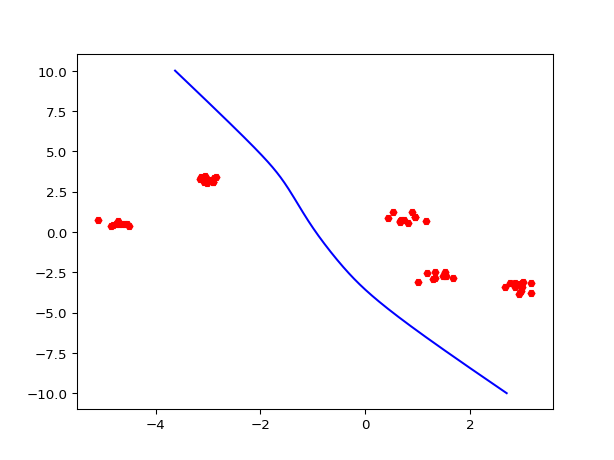
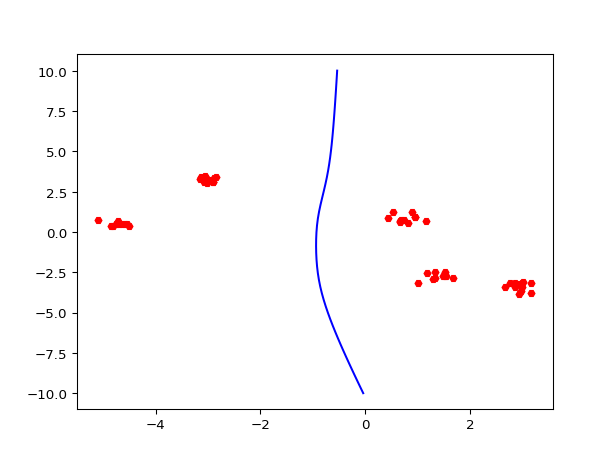
finally program is working as expected some improvements to the plotting function were implemented as well as ensuring that logic for checking the state of the craft in kesselRun() operated correctly. Overall the biggest change was reducing the craft weight which allows for more 'crazy' manouvers th

diff --git a/McMillan_Erich_pa4.py b/McMillan_Erich_pa4.py
@@ -9,12 +9,13 @@
 # a standard deviation of pi/4, the magnitude of the velocity is uniformly chosen between 2 and 5. Next
 # the program steps through the run iteratively using a small discrete time step and recalculating the
 # force/acceleration/velocity/position at each step. If the force exceeds 4[Newtons] the run is
-# terminated as unsuccessful. After a few thousand iterations the best and worst sucessful runs are
+# terminated as unsuccessful. After a few thousand iterations the best and worst successful runs are
 # plotted on a graph and saved to a .png in the current directory.
 
 ##	Import science modules	##
 import numpy as np
 import scipy.io as sio
+import scipy.spatial as sp
 import matplotlib.pyplot as plt
 import math as math
 from collections import namedtuple
@@ -28,14 +29,14 @@ runParameters = namedtuple("runParameters",
 class kesselRun:
 	# kesselRun constructor
 	def __init__(self):
-		self.pos = [-1,-1]
-		self.initpos = [-1,-1]
-		self.path = []
-		self.vel = [-1,-1]
-		self.initvel = [-1,-1]
+		self.pos = np.array([-1.0,-1.0])
+		self.initpos = np.array([-1.0,-1.0])
+		self.path = np.array([])
+		self.vel = np.array([-1.0,-1.0])
+		self.initvel = np.array([-1.0,-1.0])
 		self.initvmag = -1
 		self.initvang = -1
-		self.acc = [-1,-1]
+		self.acc = np.array([-1.0,-1.0])
 		self.time = 0
 		self.success = False
 		self.terminated = False
@@ -45,82 +46,71 @@ class kesselRun:
 	def setMass(self, mass):
 		self.mass = mass
 	def updatePosition(self, position):
-		self.path.append(position)
+		self.path = np.append(self.path, position)
 		self.pos = position
-		# print("position")
-		# print(self.pos)
 	def updateVelocity(self, velocity):
 		self.vel = velocity
-		# print("velocity")
-		# print(self.vel)
 	def updateAcceleration(self, acceleration):
 		self.acc = acceleration
-		# print("acceleration")
-		# print(self.acc)
 	def updateTime(self, deltat):
 		self.time += deltat
 	def stepRungeKuttaIntegration(self, blackholes, runParameters):
 		# Definition:
 
 		# declare variables
-		forceonship = [0,0]
+		forceonship = np.array([0.0,0.0])
 
 		# determine force upon the ship
 		for currentbh in blackholes:
 			forceonship = np.add(forceonship, currentbh.calculateForce(self.pos, self.mass))
 
-		# print(forceonship)
-		# print(np.linalg.norm(forceonship))
-		# print((np.linalg.norm(forceonship) > runParameters.maxForce))
-		# check if force has exceeded specified max if so terminate run
-		self.terminated = (np.linalg.norm(forceonship) > runParameters.maxForce) if True else self.terminated
-		if(self.terminated):
-			print("gravity exceeded max")
-			print(np.linalg.norm(forceonship))
-			return
-
 		# update acceleration
-		self.updateAcceleration(np.divide(forceonship, self.mass))
 		# update velocity
-		self.updateVelocity(np.add(self.vel, np.multiply(self.acc, runParameters.resolution)))
-
 		# update position
-		self.updatePosition(np.add(self.pos, np.multiply(self.vel, runParameters.resolution)))
-
 		# update time
+		self.updateAcceleration(np.divide(forceonship, self.mass))
+		self.updateVelocity(np.add(self.vel, np.multiply(self.acc, runParameters.resolution)))
+		self.updatePosition(np.add(self.pos, np.multiply(self.vel, runParameters.resolution)))
 		self.updateTime(runParameters.resolution)
 
-		# check if ship's y is greater than finalY if so then sucessful run
-		self.success = (self.pos[1] > runParameters.finalY) if True else self.sucess
 
-		# print(self.pos[0])
-		# print((self.pos[0] < -10.0 or self.pos[0] > 10.0))
-		# check if ship is outside the bounds
-		# print(self.pos[0])
-		# print(self.pos[1][0])
-		self.terminated = (self.pos[0] < -10.0 or self.pos[0] > 10.0) if True else self.terminated
-		# print(self.terminated)
 		# check if run time has exceeded maxtime if so terminate run
-		# self.terminated = (self.time > runParameters.maxTime) if True else self.terminated
-		# print(self.terminated)
+		# check if force has exceeded specified max if so terminate run
+		# check if ship is outside the bounds
+		if(self.time > runParameters.maxTime):
+			self.terminated = True
+			print("time exceeded max")
+			return
+		if(np.linalg.norm(forceonship) > runParameters.maxForce):
+			self.terminated = True
+			print("gravity exceeded max")
+			return
+		if(self.pos[0] < -10.0 or self.pos[0] > 10.0):
+			self.terminated = True
+			print("ship outside bounds")
+			return
+
+		# check if ship's y is greater than finalY if so then successful run
+		self.success = (self.pos[1] > runParameters.finalY) if True else self.success
+	def calculateDistance(self):
+
+		if(len(self.path) == 0):
+			return -1
+
+		numcol = int(len(self.path)/2)
+		reshapedpath = self.path.reshape(numcol,2)
+		distances = sp.distance.cdist(reshapedpath[0:-1,:], reshapedpath[1:,:], metric='euclidean')
+		ident = np.identity(distances.shape[0])
+		distance = np.sum(distances*ident)
+		return distance
 	def plotKesselRun(self, filename, blackholes ):
 		# plots the points of the kessel run and the blackholes and writes to a filename.png for viewing
-		x = []
-		y = []
-		# outfile = open(".txt", "w")
-		print(self.path)
+		plt.clf()
 
-		for p in self.path:
-			x.append(p[0])
-			y.append(p[1])
-			# outfile.write(str(p[0]))
-			# outfile.write("\t")
-			# outfile.write(str(p[1]))
-			# outfile.write("\n")
+		numcol = int(len(self.path)/2)
+		reshapedpath = self.path.reshape(numcol,2)
 
-
-		# print(x)
-		plt.plot(x, y, color = 'blue')
+		plt.plot(reshapedpath[:,0], reshapedpath[:,1] , color = 'blue')
 
 		for b in blackholes:
 			plt.plot(b.pos[0], b.pos[1], color = 'red', marker = "H", ms = 5)
@@ -139,6 +129,7 @@ class blackHole:
 		# the function will return the x and y components of the gravitational force on the ship [fx,fy]
 
 		# find the vector between the ship and the blackhole pointing toward the blackhole
+		# print("finding gravitational force")
 		# print(self.pos)
 		# print(shiplocation)
 		rvector = np.subtract(self.pos, shiplocation)
@@ -147,15 +138,17 @@ class blackHole:
 
 		# determine force of gravity along each axis
 		# gravity = 6.67408E-11
-		gravity = [1,1]
+		gravity = np.array([1,1])
 		numerator = np.multiply(self.mass, shipmass)
 		numerator = np.multiply(numerator, gravity)
 		denominator = np.power(rmagnitude, 3)
 		gravityvector = np.multiply(rvector,  np.divide(numerator, denominator))
 		# print(self.mass)
+		# print(rmagnitude)
 		# print(numerator)
 		# print(np.multiply(numerator, gravity))
 		# print(np.divide(numerator, denominator))
+		# print(gravityvector)
 		# print()
 		# print()
 		return gravityvector
@@ -176,8 +169,9 @@ def loadBlackHoles( filename ):
 	hM = bhinfo['hM']
 
 	# load file info
+	print("ONLY LOADING 1 BLACKHOLE")
 	for i in range(0,hX.size):
-		blackholes.append(blackHole([float(hX[i]), float(hY[i])], float(hM[i])));
+		blackholes.append(blackHole([np.float64(hX[i]), np.float64(hY[i])], np.float64(hM[i])));
 		# print(blackholes[-1].pos)
 	# clean-up/return
 	return blackholes
@@ -227,23 +221,24 @@ def simulateKesselRun( blackholes, runParameters ):
 
 ## 	Main code				##
 runParameters = runParameters(minX = -5, maxX = 5, startY = -10, finalY = 10, avgVelAngle = math.pi/2.0,
-	stdVelAngle = math.pi/4.0, minVel = 2, maxVel = 5, maxForce = 4, resolution = .005, maxTime = 10, shipMass = 1)
+	stdVelAngle = math.pi/4.0, minVel = 2, maxVel = 5, maxForce = 4, resolution = .1, maxTime = 10, shipMass = .1)
+
+print("Loading Blackholes")
 blackholes = loadBlackHoles("cluster1.mat")
-# currKRun = simulateKesselRun(blackholes, runParameters)
-# currKRun.plotKesselRun("output.png", blackholes)
+
 shortestKRun = kesselRun()
 shortestKRun.time = runParameters.maxTime
 longestKRun = kesselRun()
 
-for i in range(0, 10):
+print("Running simulation")
+for i in range(0, 1000):
 	print(i)
 	currKRun = simulateKesselRun(blackholes, runParameters)
-	if currKRun.time > longestKRun.time and currKRun.success > 0 :
+	if (currKRun.calculateDistance() > longestKRun.calculateDistance() or longestKRun.calculateDistance() == -1) and currKRun.success > 0 :
 		longestKRun = currKRun
-	if currKRun.time < shortestKRun.time and currKRun.success > 0 :
+	if (currKRun.calculateDistance() < shortestKRun.calculateDistance() or shortestKRun.calculateDistance() == -1) and currKRun.success > 0 :
 		shortestKRun = currKRun
 
+print("Plotting shortest and longest runs")
 shortestKRun.plotKesselRun("shortest.png", blackholes)
-
-
-# print(currKRun.path)
+longestKRun.plotKesselRun("longest.png", blackholes)
